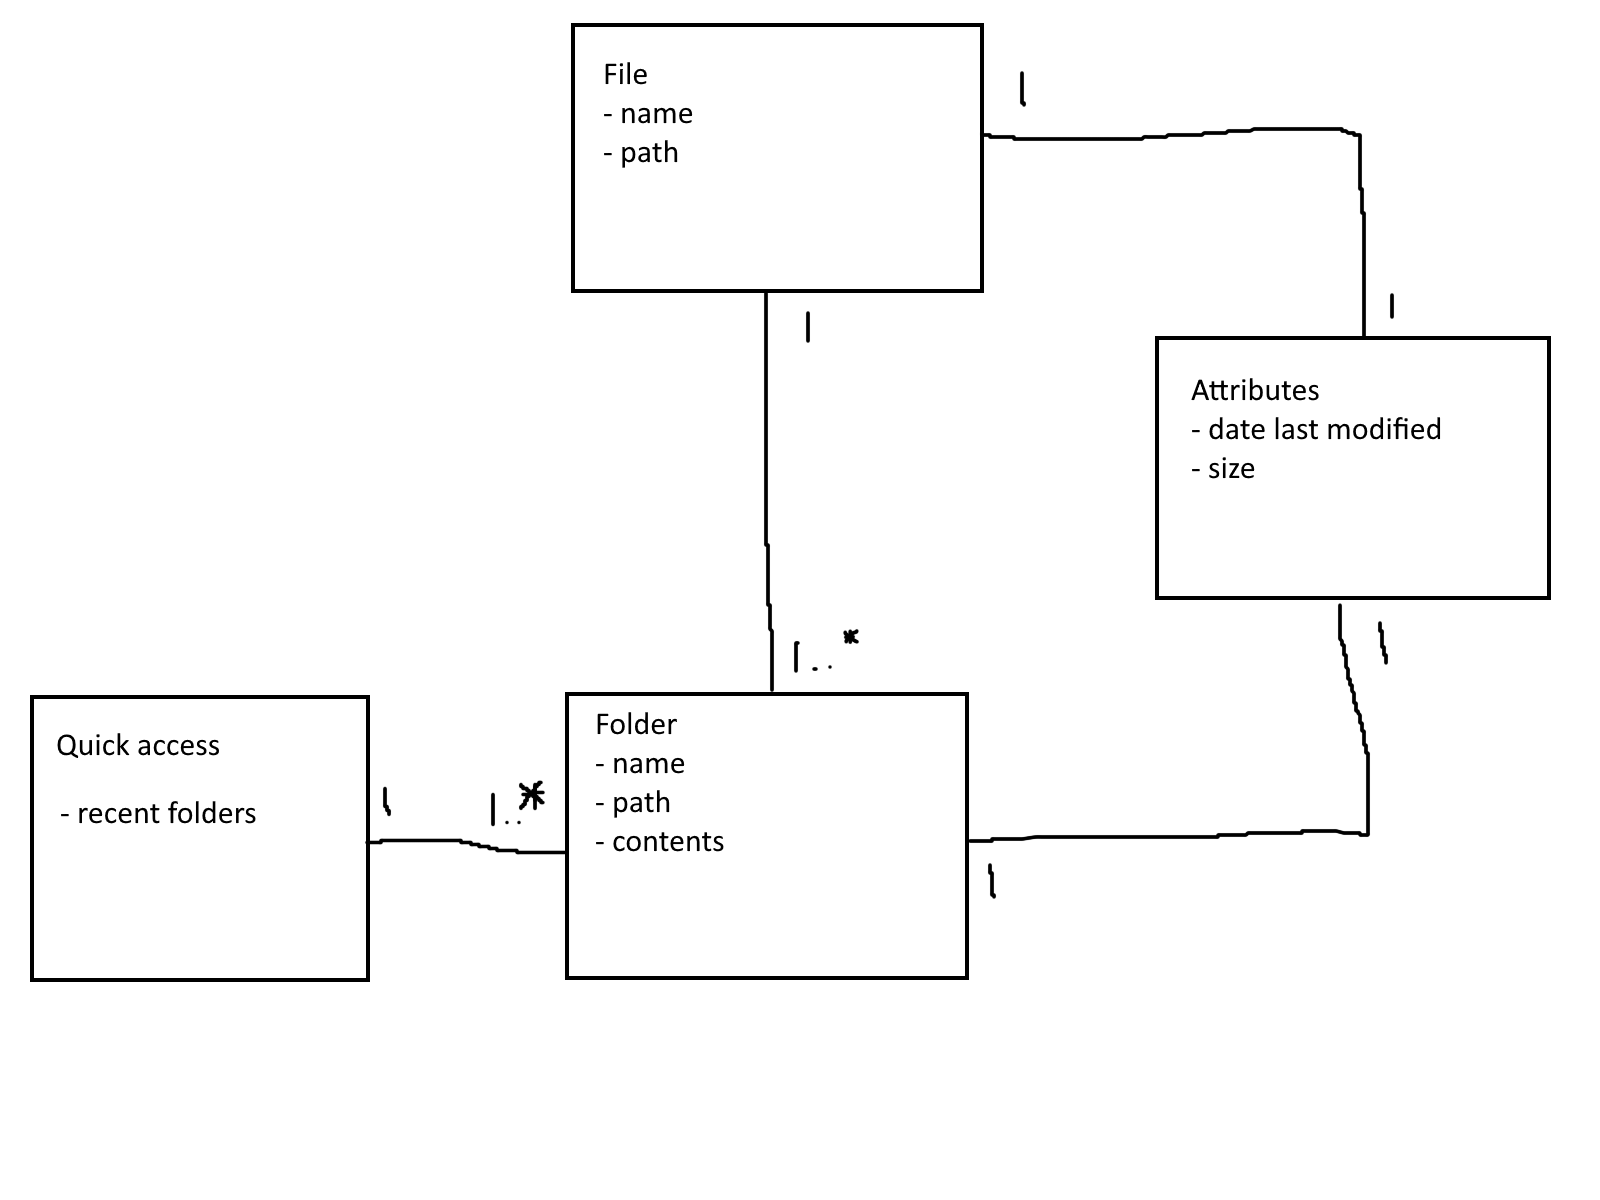
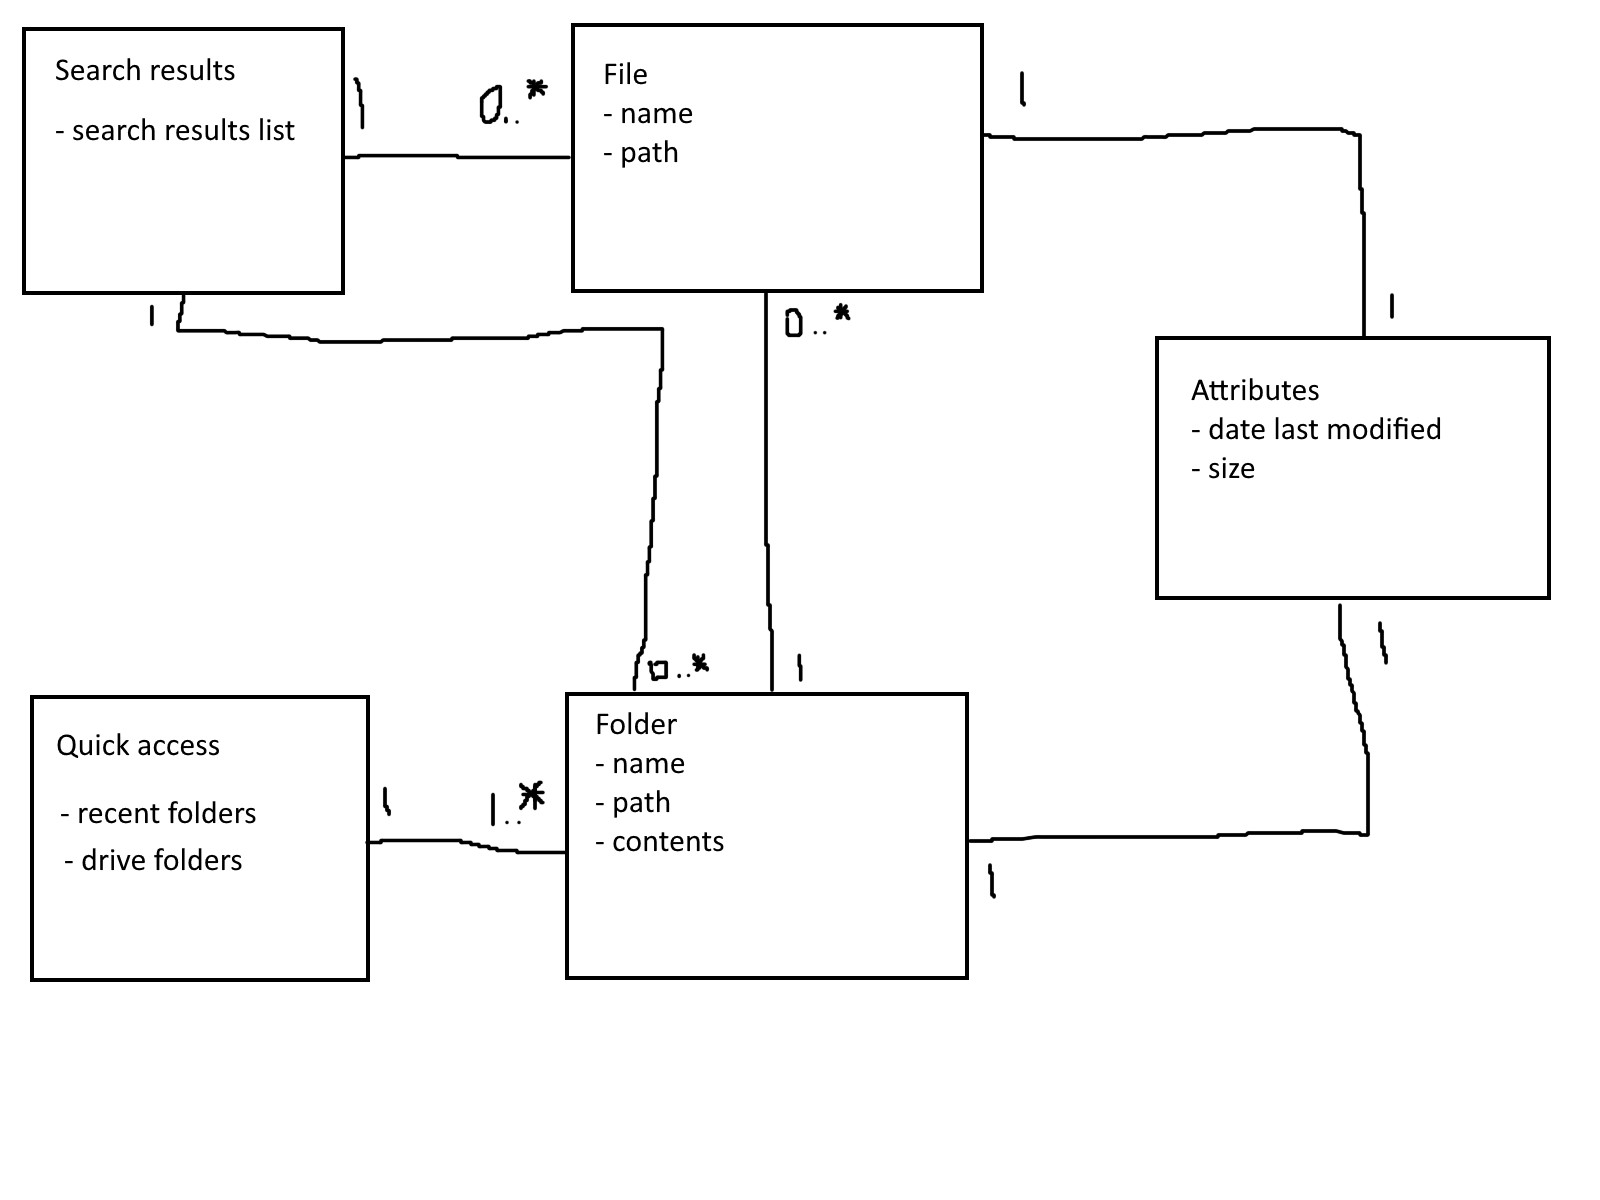
Updated section 5 Analysis Models

diff --git a/p2/README.md b/p2/README.md
@@ -322,14 +322,15 @@ acceptable when it is true. Budget: a quarter of a page.
 
 ### 5.1 Domain model
 
-<img src="domain-model.png" width="500" height="500">
+![Figure 5.1 Domain model (conceptual classes, attributes, associations with multiplicities)](domain-model.png)
 
 | Class | What it represents (one line) | Key attributes | Associations (with multiplicity) |
 |---|---|---|---|
-| | | | |
-| | | | |
-| | | | |
-| | | | |
+| File | Individual files in the file system | Name, path, Attribute set | File 1:1 Attributes. File 1:1 Folder. |
+| Folder | Folders/directories within the file system | Name, path, contents, Attributes | 1 Folder 1:1 Attributes. Folder 1:0..* File |
+| Attributes | Set of details every file/folder has | Date last modified, size | File 1:1 Attributes. Folder 1:1 Attributes |
+| Search results| Files and folders listed after searching | List of search results | Search results 1:0..* File. Search results 1:0..* Folder. |
+| Quick Access | Easy access to drive folders and recent folders | Lists drive folders and recent folders | Quick access 1:1..* Folder |
 
 <!--
 GUIDANCE
@@ -347,7 +348,24 @@ OccupancyReading (time, state); Permit (type, valid until) * ── 1..* Lot "is
 
 <!-- Copy the block below for at least two of the use cases in 4.1; preferably including your riskiest. -->
 
-#### 5.2.x UC-[xx] [Use case name]
+#### 5.2.1 UC-01 **View Files**
+
+**(a) Non-trivial steps.** [List the steps from 4.2 that need objects inside the system, and say in one line why each of the others is trivial.]
+
+**(b) Scenario table.**
+
+| Step | Subject (who acts) | Subject action (what it does) | Other data / objects (what is used) | Object acted upon (who receives) |
+|---|---|---|---|---|
+| | | | | |
+| | | | | |
+| | | | | |
+| | | | | |
+
+**(c) Analysis sequence diagram.**
+
+![Figure 5.2.x Analysis sequence diagram for UC-xx](diagrams/uc-xx-sequence.png)
+
+#### 5.2.2 UC-2 **View Folders**
 
 **(a) Non-trivial steps.** [List the steps from 4.2 that need objects inside the system, and say in one line why each of the others is trivial.]
 
